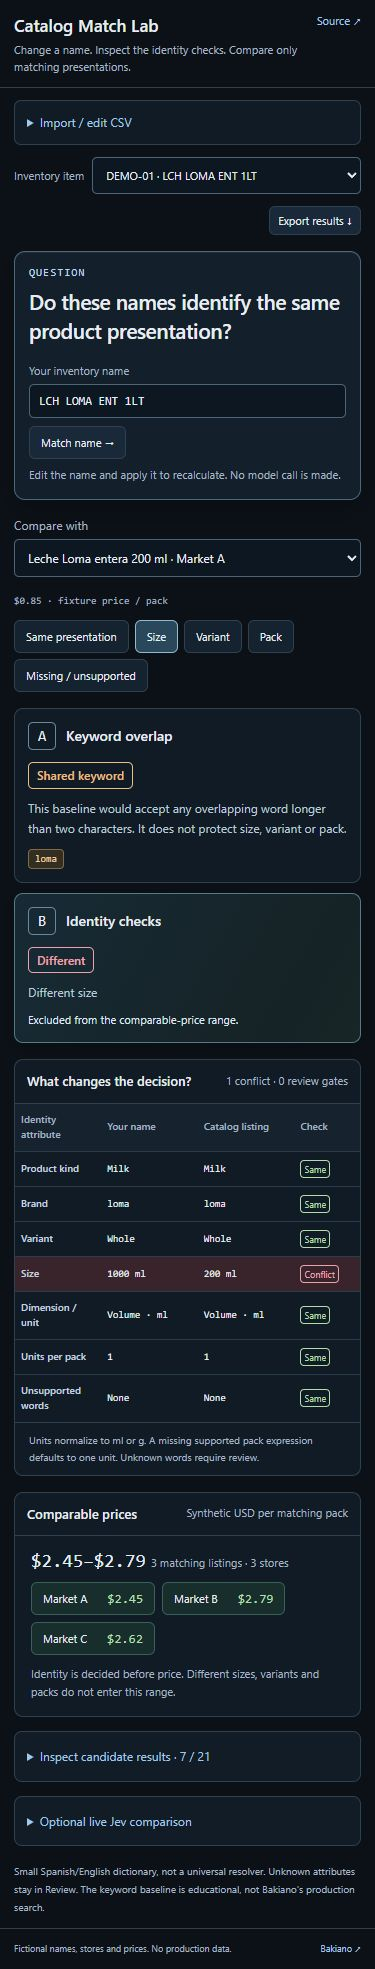
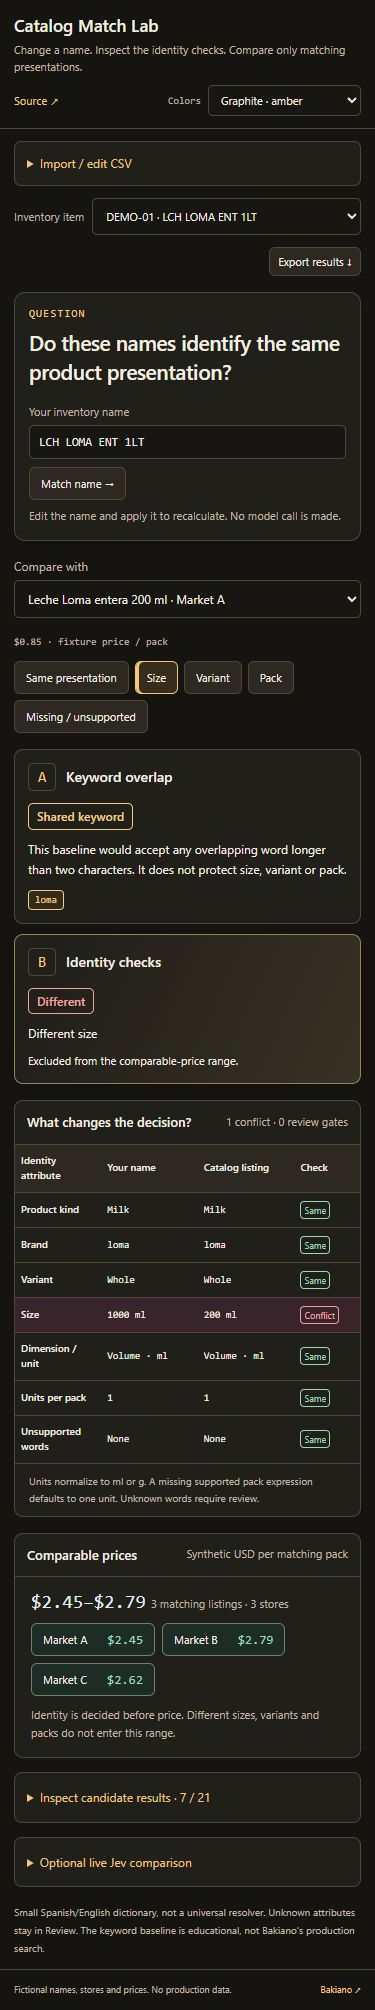
Add selectable color palettes to the catalog lab (#4)
* feat(lab): add three selectable color palettes

* docs: refresh palette controls and demo screenshots

* docs: capture the catalog palette at phone dimensions

Changed region(s): [[0.0293, 0.0, 0.968, 0.9914], [0.8507, 0.0, 0.9387, 0.031]]

diff --git a/demo/palette.css b/demo/palette.css
@@ -1,0 +1,103 @@
+/* Shared lab palettes. Hue changes emphasis; outcome colors retain their meaning. */
+:root {
+  --bg:#151411; --panel:#211f1a; --surface:#211f1a; --raised:#2d2922;
+  --line:#4f473a; --text:#f4eee3; --muted:#c0b7a7;
+  --accent:#f3c77d; --accent-soft:#382d1c; --input:#171613;
+  --mint:#9ed8b7; --success-surface:#1d2d25;
+  --amber:#f2cf87; --warning-surface:#352b1c;
+  --red:#f1a2a4; --danger-surface:#382326;
+  --blue:var(--accent); --lime:var(--mint); --orange:var(--amber);
+}
+:root[data-lab-palette="cyan"] {
+  --bg:#10191b; --panel:#182326; --surface:#182326; --raised:#203034;
+  --line:#43565a; --text:#e7f2f1; --muted:#afc3c3;
+  --accent:#8ddbd8; --accent-soft:#1e3e40; --input:#101b1e;
+  --mint:#addba9; --success-surface:#203126;
+  --amber:#edc791; --warning-surface:#352c20;
+  --red:#eaa5ae; --danger-surface:#35232a;
+}
+:root[data-lab-palette="lilac"] {
+  --bg:#17141e; --panel:#241f2c; --surface:#241f2c; --raised:#302939;
+  --line:#554660; --text:#f0eaf5; --muted:#c3b7ce;
+  --accent:#cbb1f4; --accent-soft:#3b2b50; --input:#191420;
+  --mint:#abe0c0; --success-surface:#203129;
+  --amber:#f0cc96; --warning-surface:#352d23;
+  --red:#f0a3b3; --danger-surface:#382430;
+}
+body { background:var(--bg); color:var(--text); }
+a,summary { color:var(--accent); }
+.brand,h1,h2,h3,h4 { color:var(--text); }
+.app-header,.top { flex-wrap:wrap; }
+.app-header nav,.top-right { align-items:center; flex-wrap:wrap; gap:14px; }
+.top { height:auto; min-height:66px; padding-block:13px; }
+.lab-palette { display:inline-flex; align-items:center; gap:7px; font:10px/1.4 var(--mono,ui-monospace,monospace); color:var(--muted); white-space:nowrap; }
+.lab-palette select { width:166px; max-width:100%; padding:6px 8px; font:11px/1.4 system-ui,sans-serif; height:31px; border:1px solid var(--line); border-radius:5px; background:var(--input); color:var(--text); }
+button,select,input,textarea { border-color:var(--line); color:var(--text); }
+button { background:var(--raised); }
+select,input,textarea,pre,option { background:var(--input); }
+button:hover:not(:disabled) { background:var(--accent-soft); border-color:var(--accent); }
+button:focus-visible,select:focus-visible,input:focus-visible,textarea:focus-visible,a:focus-visible,summary:focus-visible { outline-color:var(--accent); }
+input[type=range] { accent-color:var(--accent); }
+.case-sidebar button,.inventory button,.experiment-list button { background:var(--panel); border-color:var(--line); }
+.case-sidebar button:hover,.inventory button:hover,.experiment-list button:hover { background:var(--raised); border-color:var(--accent); }
+.case-sidebar button[aria-current=true],.inventory button[aria-pressed=true],.experiment-list button[aria-pressed=true],#focus-controls button[aria-pressed=true],#inspector-tabs button[aria-selected=true],#run-choices button[aria-pressed=true],#quick-cases button[aria-pressed=true],.view-controls button[aria-pressed=true] {
+  background:var(--accent-soft); border-color:var(--accent); color:var(--text); box-shadow:inset 3px 0 var(--accent);
+}
+.question-panel,.question-content { background:var(--panel); border-color:var(--line); box-shadow:0 8px 24px #0002; }
+.section-label,.question-panel .eyebrow,.question-position,.record-number,.inventory-number,.inventory-arrow,.experiment-list b,.eyebrow { color:var(--accent); }
+.lede,.question-panel>p,.case-context dd,.findings p,.raw-limits,.raw-limits h4,.method-card>p,.method-card .consequence,.evidence-table tbody th,.result-sets span,.comparison-row p,#meaning,.variant-metrics dt { color:var(--text); }
+.before-panel,.after-panel,.method-card,.variant-card,.findings,.inspector,.evidence-panel,.price-panel,.comparison-panel,.record-evidence,.all-results,.provider,.import-panel,.output-card,.rule-comparison,.explanation-panel,.journal-panel {
+  background:var(--panel); border-color:var(--line);
+}
+.focus-console,.preset-control,.method-card:last-child,.after-panel {
+  border-color:color-mix(in srgb,var(--accent) 45%,var(--line));
+  background:linear-gradient(115deg,color-mix(in srgb,var(--accent) 8%,var(--panel)),var(--panel) 45%,color-mix(in srgb,var(--accent) 15%,var(--panel)));
+  background-size:220% 220%;
+}
+.focus-heading,.focus-heading>span,.focus-reading,#focus-note,.preset-heading>label,.preset-position,.run-state { color:var(--text); }
+.focus-console button,.preset-arrow,.preset-reset { color:var(--accent); background:var(--raised); border-color:var(--line); }
+.focus-console button:hover,.preset-arrow:hover:not(:disabled),.preset-reset:hover:not(:disabled) { background:var(--accent-soft); border-color:var(--accent); }
+.input-panel { background:var(--panel); border-color:var(--line); border-top-color:var(--accent); }
+/* Secondary evidence uses the same neutral surfaces as the selected palette. */
+#quick-cases button { background:var(--raised); border-color:var(--line); color:var(--text); }
+.selection-detail { background:var(--input); border-color:var(--line); }
+.source-key,.output-url,.output-time,.count,.journal-panel summary,#journal li { color:var(--muted); }
+.technique-panel { background:var(--success-surface); border-color:var(--line); border-top-color:var(--mint); }
+.output-panel { background:var(--panel); border-color:var(--line); border-top-color:var(--accent); }
+.output-panel .eyebrow { color:var(--accent); }
+.source-row.selected,.output-row.selected,.chain-record[aria-pressed=true] { background:var(--accent-soft); border-color:var(--accent); box-shadow:inset 3px 0 var(--accent); }
+.source-row:hover,.chain-record:hover { background:var(--raised); }
+.chain-record small,.record-arrow,.record-arrow:hover,.key-badge { color:var(--accent); }
+.variant-heading,.card-heading,thead th,.count,.operation-path>div { background:var(--raised); border-color:var(--line); color:var(--text); }
+.variant-query,.query-block,.record-evidence pre,.method-grid pre { background:var(--input); }
+.sql-row code,.query-block pre { color:var(--text); }
+.sql-keyword,.source-name,.field,.variant-label>span,.method-letter,.key-badge { color:var(--accent); border-color:var(--line); }
+.line-no { color:var(--muted); }
+.sql-row.changed { background:var(--success-surface); box-shadow:inset 2px 0 var(--mint); }
+.scan-track { background:var(--raised); }
+.scan-track rect { fill:var(--accent); }
+.source-meta,.output-meta,.comparison-titles,.comparison-titles>div:last-child,.comparison-table th,.comparison-table td,.comparison-note,th,td { border-color:var(--line); }
+.comparison-table thead { color:var(--muted); }
+.comparison-titles>div:last-child,.comparison-table tr.difference,.explanation,.matched-listings button,.identity-card,.chain-coverage .covered {
+  background:var(--success-surface); border-color:color-mix(in srgb,var(--mint) 40%,var(--line)); color:var(--text);
+}
+.explanation { border-left-color:var(--mint); }
+.identity-card[aria-pressed=true] { background:var(--success-surface); border-color:var(--mint); box-shadow:inset 3px 0 var(--mint); }
+.identity-chips>span { background:var(--panel); border-color:var(--line); }
+.identity-card-top,.identity-chips code,.identity-members,.enrichment-table .field-same td,.result-sets>div:last-child span,.chain-coverage .covered { color:var(--mint); }
+.identity-chips small,.field-agreement { color:var(--muted)!important; }
+.identity-card.needs-review,.check-missing,.check-unsupported,.check-invalid,.field-missing,.input-warning,.tokens span { background:var(--warning-surface); color:var(--amber); border-color:var(--amber); }
+.check-conflict,.field-conflict { background:var(--danger-surface); }
+.raw-record mark { background:var(--warning-surface); color:var(--amber); }
+.generation-order { background:var(--accent-soft); color:var(--text); border-color:var(--accent); }
+#use-opposite,.accent { background:var(--accent); color:var(--bg); border-color:var(--accent); }
+#use-opposite:hover,.accent:hover { background:var(--accent); color:var(--bg); }
+.operation-path strong { color:var(--mint); }
+.operation-path .idle { background:var(--input); }
+.guard-header h1,.hero h1,.hero h1 em { color:var(--text); }
+@media(max-width:720px) {
+  .app-header { align-items:flex-start; gap:10px; }
+  .app-header nav,.top-right { width:100%; justify-content:space-between; gap:10px; }
+  .lab-palette { margin-left:auto; }
+  .lab-palette select { width:153px; }
+}

diff --git a/demo/palette.js b/demo/palette.js
@@ -1,0 +1,18 @@
+const palettes=[['amber','Graphite · amber'],['cyan','Slate · cyan'],['lilac','Ink · lilac']];
+const key='bakiano.lab.palette.v1';
+let selected='amber';
+try { const saved=localStorage.getItem(key); if(palettes.some(([id])=>id===saved))selected=saved; } catch { /* Storage may be unavailable; the default remains usable. */ }
+document.documentElement.dataset.labPalette=selected;
+const target=document.querySelector('.app-header nav,.top-right,.wrap>nav .row');
+if(target && !document.querySelector('[data-lab-palette-control]')) {
+  const label=document.createElement('label'); label.className='lab-palette'; label.dataset.labPaletteControl='';
+  const caption=document.createElement('span'); caption.textContent='Colors';
+  const select=document.createElement('select'); select.setAttribute('aria-label','Color palette');
+  for(const [id,name] of palettes) { const option=document.createElement('option'); option.value=id; option.textContent=name; select.append(option); }
+  select.value=selected; label.append(caption,select); target.append(label);
+  select.addEventListener('change',()=>{
+    if(!palettes.some(([id])=>id===select.value))return;
+    document.documentElement.dataset.labPalette=select.value;
+    try { localStorage.setItem(key,select.value); } catch { /* The current view still changes when storage is blocked. */ }
+  });
+}

diff --git a/demo/index.html b/demo/index.html
@@ -4,6 +4,7 @@
   <meta charset="utf-8"><meta name="viewport" content="width=device-width,initial-scale=1">
   <title>Catalog Match Lab · Bakiano</title><meta name="description" content="Compare product names and inspect the attributes behind each matching decision.">
   <link rel="icon" href="/docs/images/icon.svg" type="image/svg+xml"><link rel="stylesheet" href="/demo/catalog.css"><script type="module" src="/demo/app.js"></script>
+  <link rel="stylesheet" href="/demo/palette.css"><script type="module" src="/demo/palette.js"></script>
 </head>
 <body>
   <header class="app-header"><div><h1>Catalog Match Lab</h1><p>Change a name. Inspect the identity checks. Compare only matching presentations.</p></div><nav aria-label="Lab links"><span class="local-state">Synthetic fixtures · offline</span><a href="https://github.com/alejandrofrank/catalog-match-lab">Source ↗</a></nav></header>

diff --git a/docs/palettes.md b/docs/palettes.md
@@ -1,0 +1,17 @@
+# Lab color palettes
+
+Use **Colors** in the header to try three directions: Graphite / amber, Slate / cyan and Ink / lilac. Graphite / amber is the initial default. The choice is saved in this lab's browser storage; storage failures still leave the selector usable.
+
+Palette changes only update CSS tokens. They do not rerun an experiment, change a dataset or submit a model/cloud request. All layouts and evidence remain available.
+
+| Role | Treatment |
+| --- | --- |
+| Selected experiment / focused control | Palette accent and an explicit selected state |
+| Reported agreement / successful boundary | Green, with the existing text label |
+| Missing or weak evidence | Warm warning color, with the existing explanation |
+| Conflict / failed boundary | Coral, with the existing failure label |
+| SQL or record detail | High contrast text on a quiet inset surface |
+
+The existing gentle surface movement uses the current palette; headings retain one plain text color. Reduced-motion preferences continue to disable animation and transitions. Controls wrap in narrow headers rather than overlapping the title.
+
+demo/palette.css provides shared semantic tokens and component treatments. demo/palette.js adds the selector, validates saved choices and handles unavailable browser storage. The three repositories carry the same small files to remain runnable without a package install or shared hosted dependency.

diff --git a/README.md b/README.md
@@ -8,6 +8,8 @@ Built from problems encountered at [Bakiano](https://bakiano.com): names differ,
 
 ![A pair inspector compares keyword overlap with identity checks and highlights the size conflict between a 1 L carton and a 200 ml carton.](docs/images/demo-desktop.jpg)
 
+Use **Colors** in the header to try Graphite / amber, Slate / cyan or Ink / lilac. The selection is saved locally and does not recalculate matches. Outcome colors retain their meaning. [Palette controls](docs/palettes.md).
+
 ## Try it
 
 Node.js 22 or newer. No dependency installation, account, or API key is required.
